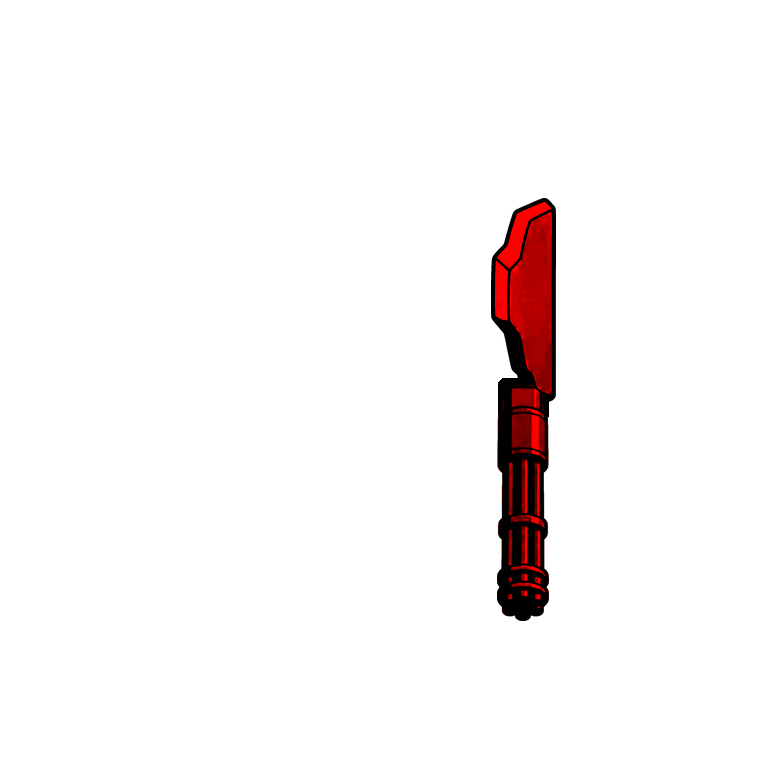
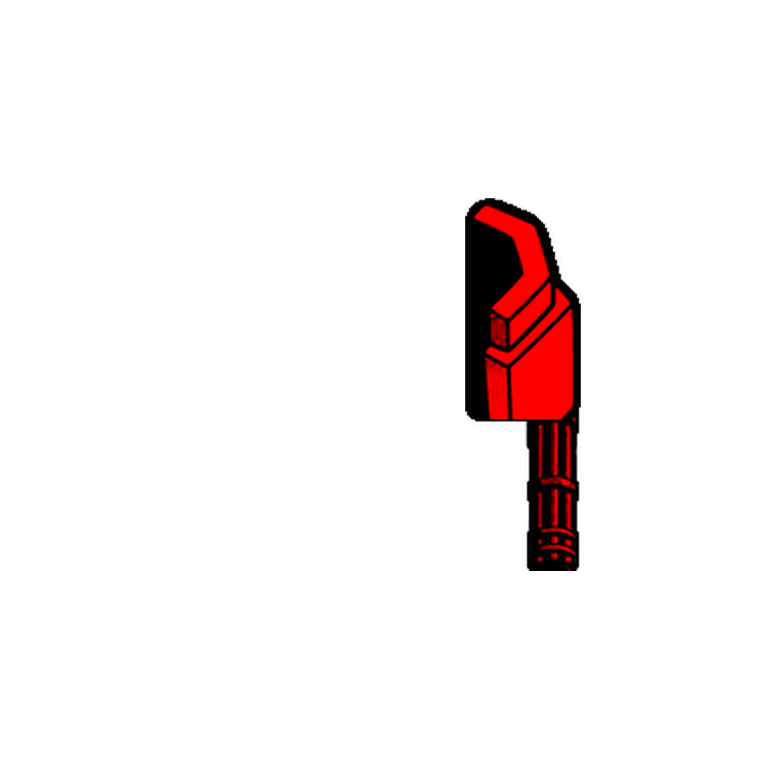
Suit kit: back view arms cover the shoulders, back collar band; side view with guns aimed forward
Claude-Session: https://claude.ai/code/session_01GM4XsNt8FF8EEgy8oUJDKj

Changed region(s): [[0.5938, 0.25, 0.7812, 0.8125]]

diff --git a/Source/Art/suit_kit.py b/Source/Art/suit_kit.py
@@ -12,8 +12,9 @@ helmet texture is stored 80 px LOWER than where it shows, and the preview lifts 
 
 Pieces (each its own apparel, so each can be damaged and lost on its own):
   Body, Legs, ArmL, ArmR (shoulder plate + joint + weapon), Helmet.
-Facings: south, east, north (the game mirrors east for west). In the east view only the near arm (ArmR) is
-drawn; ArmL is empty there.
+Facings: south, east (a side view, the owner's pick; guns aimed forward), north (the game mirrors east for west).
+ArmL is the arm on the left of the front view (the pawn's right arm): nearest the viewer facing east, on the
+right from behind.
 
 Usage: python3 suit_kit.py SPEC_NAME OUT_DIR  (see SPECS at the bottom)
 Writes OUT_DIR/<Piece>_<facing>.png and OUT_DIR/<Piece>_<facing>m.png (red = takes the suit colour),
@@ -104,6 +105,23 @@ class Layer:
             yy = y0 + (y1 - y0) * k / 4; d.line((x0, yy, x1, yy), fill=(30, 30, 36, 255), width=3)
         d.line((x0 + 4, y0 + 3, x1 - 4, y0 + 3), fill=(190, 192, 200, 255), width=2)
 
+    def collar(self, cx, cy, w, h, t=None, col=(150, 146, 158)):
+        """front half of a collar ring (thickness t) centred on (cx, cy): drawn over what is behind it, painted"""
+        t = t or max(10, h // 3)
+        K4 = 4; W, H = self.tex.size
+        m = Image.new('L', (W * K4, H * K4), 0); d = ImageDraw.Draw(m)
+        box = lambda r: ((cx - w / 2 - r) * K4, (cy - h / 2 - r) * K4, (cx + w / 2 + r) * K4, (cy + h / 2 + r) * K4)
+        d.ellipse(box(0), fill=255); d.ellipse(box(-t), fill=0)
+        ring = np.array(m.resize((W, H), Image.LANCZOS)) > 127
+        ring[:int(cy)] = False                                      # only the near (lower) half
+        yy = np.arange(H)[:, None] * np.ones((1, W)); shade = np.clip(1.08 - (yy - cy) / (h / 2 + t) * 0.35, 0.7, 1.1)
+        line = ndimage.binary_dilation(ring, iterations=3) & ~ring
+        line[:int(cy)] = False
+        a = np.array(self.tex); mk = np.array(self.mask)
+        for c in range(3): a[..., c][ring] = np.clip(col[c] * shade[ring], 0, 255)
+        a[..., 3][ring] = 255; a[line] = INK; mk[ring] = 255
+        self.tex = Image.fromarray(a); self.mask = Image.fromarray(mk)
+
     def save(self, out, name):
         self.tex.save(f'{out}/{name}.png')
         a = np.array(self.tex)[..., 3]; m = np.array(self.mask)
@@ -129,31 +147,38 @@ def build(spec, out):
     # legs (south) under the hips
     L = Layer(); L.put(legs_stub(spec['legs']['south']), cx, top=body_bb[3] - int(body_h * 0.12), w=int((body_bb[2] - body_bb[0]) * 0.72), behind=True)
     pieces[('Legs', 'south')] = L
-    # ---------------- east (side view): body, near arm, helmet, legs
+    def moved(f, cx_to, top_to, k=1.0, flip=False):
+        """a full front-view arm layer, scaled by k and moved so its centre x / top land on cx_to / top_to"""
+        L = Layer(); L.put_assembly(f'{src}/south_{f}.png', f'{src}/south_{f}_m.png')
+        x0, y0, x1, y1 = bbox(L.tex); box = (x0, y0, x1 + 1, y1 + 1)
+        pm = (L.tex.crop(box), L.mask.crop(box)); N = Layer()
+        N.put(pm, cx_to, top=top_to, h=int((y1 - y0) * k), flip=flip); return N
+    armR_bb = bbox(pieces[('ArmR', 'south')].tex)
+    bw = body_bb[2] - body_bb[0]
+    # ---------------- east (side view, the owner's pick over the three-quarter view): one near arm, gun aimed forward
     L = Layer(); L.put(part(spec['body']['east']), cx, bottom=body_bb[3], h=body_h); pieces[('Body', 'east')] = L
     eb = bbox(L.tex)
     L = Layer(); L.put(legs_stub(spec['legs']['east']), cx, top=eb[3] - int(body_h * 0.12), h=int(body_h * 0.42)); pieces[('Legs', 'east')] = L
     L = Layer(); L.put(part(spec['helmet']['east']), cx + 4, bottom=helm_bb[3] - int(helm_h * 0.06), h=int(helm_h * 0.92)); pieces[('Helmet', 'east')] = L
     L = Layer()
     pb = L.put(part(spec['plate']['east']), cx - 4, top=eb[1] + int(body_h * 0.16), h=int(plate_h * 0.85))
-    wh = int(spec['weapon_h'][spec['weapon_r']] * K)
-    L.put(part(spec['weapons_east'][spec['weapon_r']]), cx, top=pb[3] - 18, h=wh, behind=True)
-    L.joint(cx, pb[3] - 22)
-    pieces[('ArmR', 'east')] = L; pieces[('ArmL', 'east')] = Layer()
-    # ---------------- north (back view): mirrored arm sides, back panel with the cell caps
+    wname = spec['weapon_l']
+    wt, wm = part(spec['weapons_east'][wname]); wt, wm = wt.rotate(90, expand=True), wm.rotate(90, expand=True)
+    ln = int(spec['weapon_h'][wname] * K); h = max(1, round(wt.height * ln / wt.width))
+    elbow_y = pb[3] - 8
+    L.put((wt, wm), pb[0] + (pb[2] - pb[0]) * 0.3 + ln / 2, top=elbow_y - h // 2, w=ln)
+    L.joint(int((pb[0] + pb[2]) / 2), elbow_y - 18)
+    pieces[('ArmL', 'east')] = L; pieces[('ArmR', 'east')] = Layer()
+    # ---------------- north (back view): the arms swap sides and are mirrored; shoulders cover the body
     L = Layer(); L.put(part(spec['body']['north']), cx, bottom=body_bb[3], h=body_h); pieces[('Body', 'north')] = L
     nb = bbox(L.tex)
-    L = Layer(); L.put(legs_stub(spec['legs']['north']), cx, top=nb[3] - int(body_h * 0.12), w=int((body_bb[2] - body_bb[0]) * 0.72)); pieces[('Legs', 'north')] = L
-    L = Layer(); L.put(part(spec['helmet']['north']), cx, bottom=helm_bb[3], h=helm_h); pieces[('Helmet', 'north')] = L
-    armR_bb = bbox(pieces[('ArmR', 'south')].tex)
-    for p, sbb, wname in (('ArmL', armR_bb, spec['weapon_l']), ('ArmR', armL_bb, spec['weapon_r'])):
-        # seen from behind the arm that was on the left is on the right
-        acx = (sbb[0] + sbb[2]) / 2; flip = p == 'ArmR'
-        L = Layer()
-        pb = L.put(part(spec['plate']['north']), acx, top=plate_top, h=plate_h, flip=flip)
-        L.put(part(spec['weapons_south'][wname]), acx, top=pb[3] - 18, h=int(spec['weapon_h'][wname] * K), flip=True, behind=True)
-        L.joint(acx, pb[3] - 22)
-        pieces[(p, 'north')] = L
+    L = Layer(); L.put(legs_stub(spec['legs']['north']), cx, top=nb[3] - int(body_h * 0.12), w=int(bw * 0.72)); pieces[('Legs', 'north')] = L
+    L = Layer(); hb = L.put(part(spec['helmet']['north']), cx, bottom=helm_bb[3] - int(helm_h * 0.10), h=int(helm_h * 0.86))
+    # the back rim of the collar is nearer than the head from behind: a shaded armour band over the helmet's base
+    L.collar((hb[0] + hb[2]) / 2, hb[3] - int(helm_h * 0.22), int((hb[2] - hb[0]) * 1.04), int(helm_h * 0.42), t=int(helm_h * 0.13))
+    pieces[('Helmet', 'north')] = L
+    pieces[('ArmL', 'north')] = moved(f"armLfull_{spec['weapon_l']}", (armR_bb[0] + armR_bb[2]) / 2, armL_bb[1], 1.0, flip=True)
+    pieces[('ArmR', 'north')] = moved(f"armRfull_{spec['weapon_r']}", (armL_bb[0] + armL_bb[2]) / 2, armR_bb[1], 1.0, flip=True)
     # ---------------- save: helmet stored HEAD px lower (the game lifts it to the head)
     for (p, f), L in pieces.items():
         if p == 'Helmet': L.shift(HEAD)
@@ -161,8 +186,8 @@ def build(spec, out):
     preview(out, spec.get('colors', [(0.56, 0.58, 0.60), (0.58, 0.60, 0.42)]))
 
 
-ORDER = {'south': ['Legs', 'Body', 'ArmL', 'ArmR', 'Helmet'], 'east': ['ArmL', 'Legs', 'Body', 'ArmR', 'Helmet'],
-         'north': ['Legs', 'Helmet', 'ArmL', 'ArmR', 'Body']}
+ORDER = {'south': ['Legs', 'Body', 'ArmL', 'ArmR', 'Helmet'], 'east': ['ArmR', 'Legs', 'Body', 'ArmL', 'Helmet'],
+         'north': ['Legs', 'Body', 'ArmL', 'ArmR', 'Helmet']}
 
 
 def stack(out, facing, color=None):

diff --git a/Source/Art/bulwark_assemble.py b/Source/Art/bulwark_assemble.py
@@ -123,8 +123,8 @@ for i,(lab,a,b) in enumerate(loadouts):
             return t,m
         os.makedirs(SP+'/kit_src',exist_ok=True)
         WEAPONS=[w for w in ('minigun','rockets','chainsaw','laser','flamer','hammer','autocannon','grenade','arc','towershield') if w in H]
-        layers=[('body',ch),('helmet',HL)]
-        for wn in WEAPONS: layers+= [(f'armL_{wn}',merge(arm(wn,'left'),band)),(f'armR_{wn}',merge(arm(wn,'right'),band))]
+        layers=[('body',ch),('helmet',HL),('plateLfull',merge(arm('minigun','left')[1:])),('plateRfull',merge(arm('minigun','right')[1:]))]
+        for wn in WEAPONS: layers+= [(f'armL_{wn}',merge(arm(wn,'left'),band)),(f'armR_{wn}',merge(arm(wn,'right'),band)),(f'armLfull_{wn}',merge(arm(wn,'left'))),(f'armRfull_{wn}',merge(arm(wn,'right')))]
         for name,pair in layers:
             pair[0].save(f'{SP}/kit_src/south_{name}.png'); pair[1].save(f'{SP}/kit_src/south_{name}_m.png')
     x,y=(i%3)*345,(i//3)*330

diff --git a/docs/STYLE_GUIDE.md b/docs/STYLE_GUIDE.md
@@ -53,7 +53,10 @@ stored 80 px lower because the game draws it at the head position. Each piece is
 later be its own apparel / module and be damaged and lost on its own.
 - South layers come from the front-view assembly (`bulwark_assemble.py` with `EXPORT=1` writes
   `kit_src/south_*.png` incl. an arm layer per weapon, with the hole where the chest nests into the plate).
-- East/north come from the side/back paintings; the back of a hanging weapon is its front mirrored.
+- East = side view (owner preferred it to a three-quarter view; the three-quarter paintings are kept in
+  `kit/bulwark_src/q/`), guns aimed forward from the elbow so the firing animation matches.
+- North = back painting; the arms are the front-view arm layers mirrored and swapped, drawn over the body so
+  the shoulders are covered; a collar band is drawn over the helmet base.
 - A new suit = a new spec function (like `bulwark_spec`) pointing at its parts. Weapon side views and the
   leg stubs are shared between suits.
 Bulwark sources: `Source/Art/kit/bulwark_src/`; output: `Source/Art/kit/out_bulwark/`
